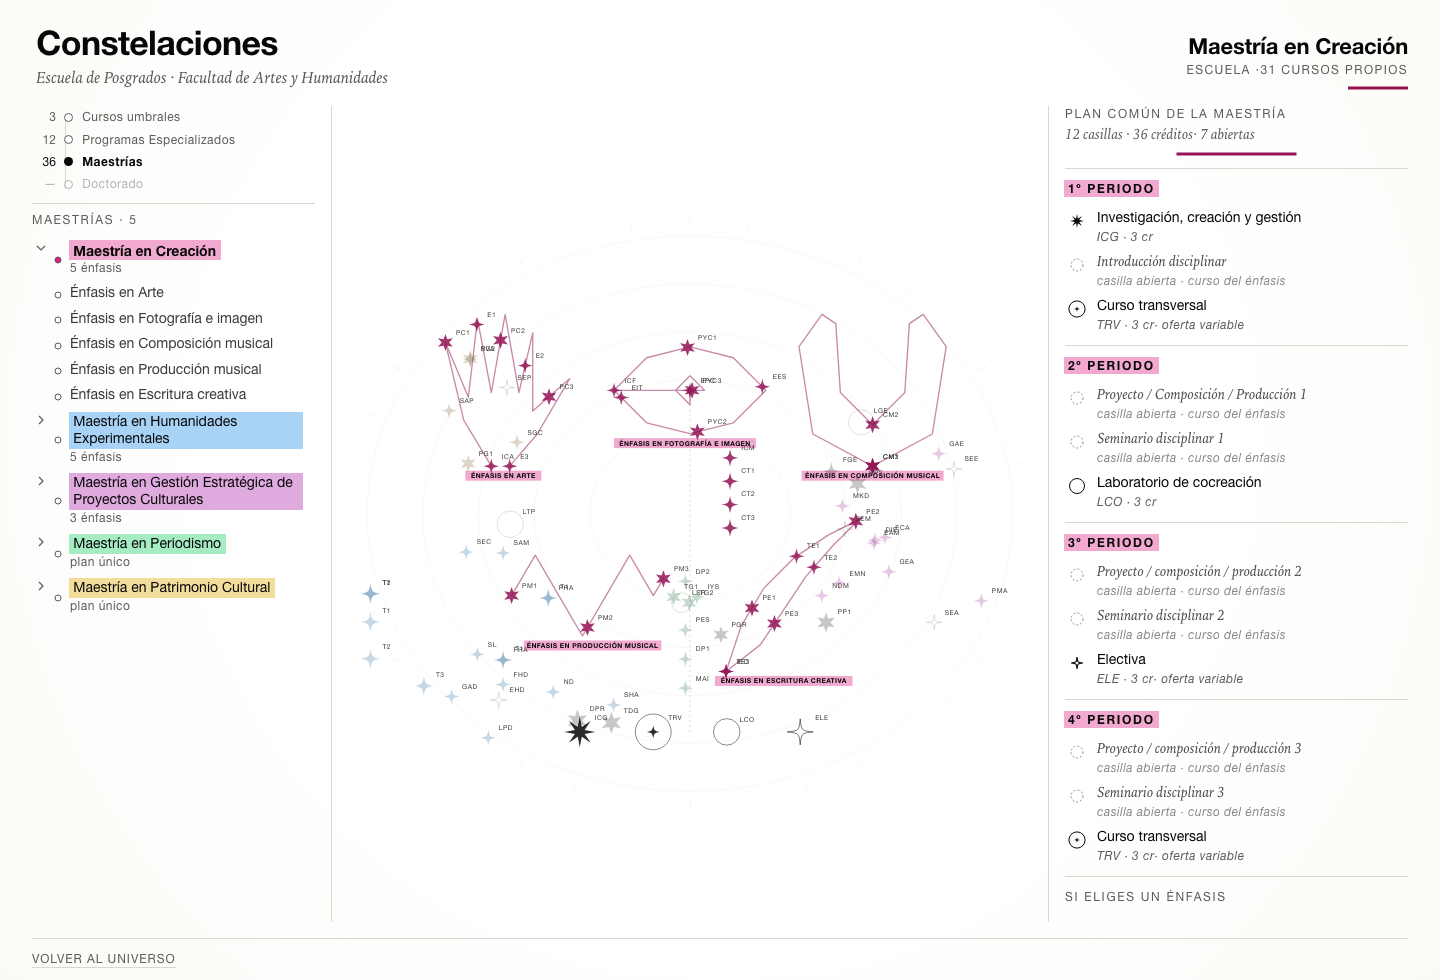
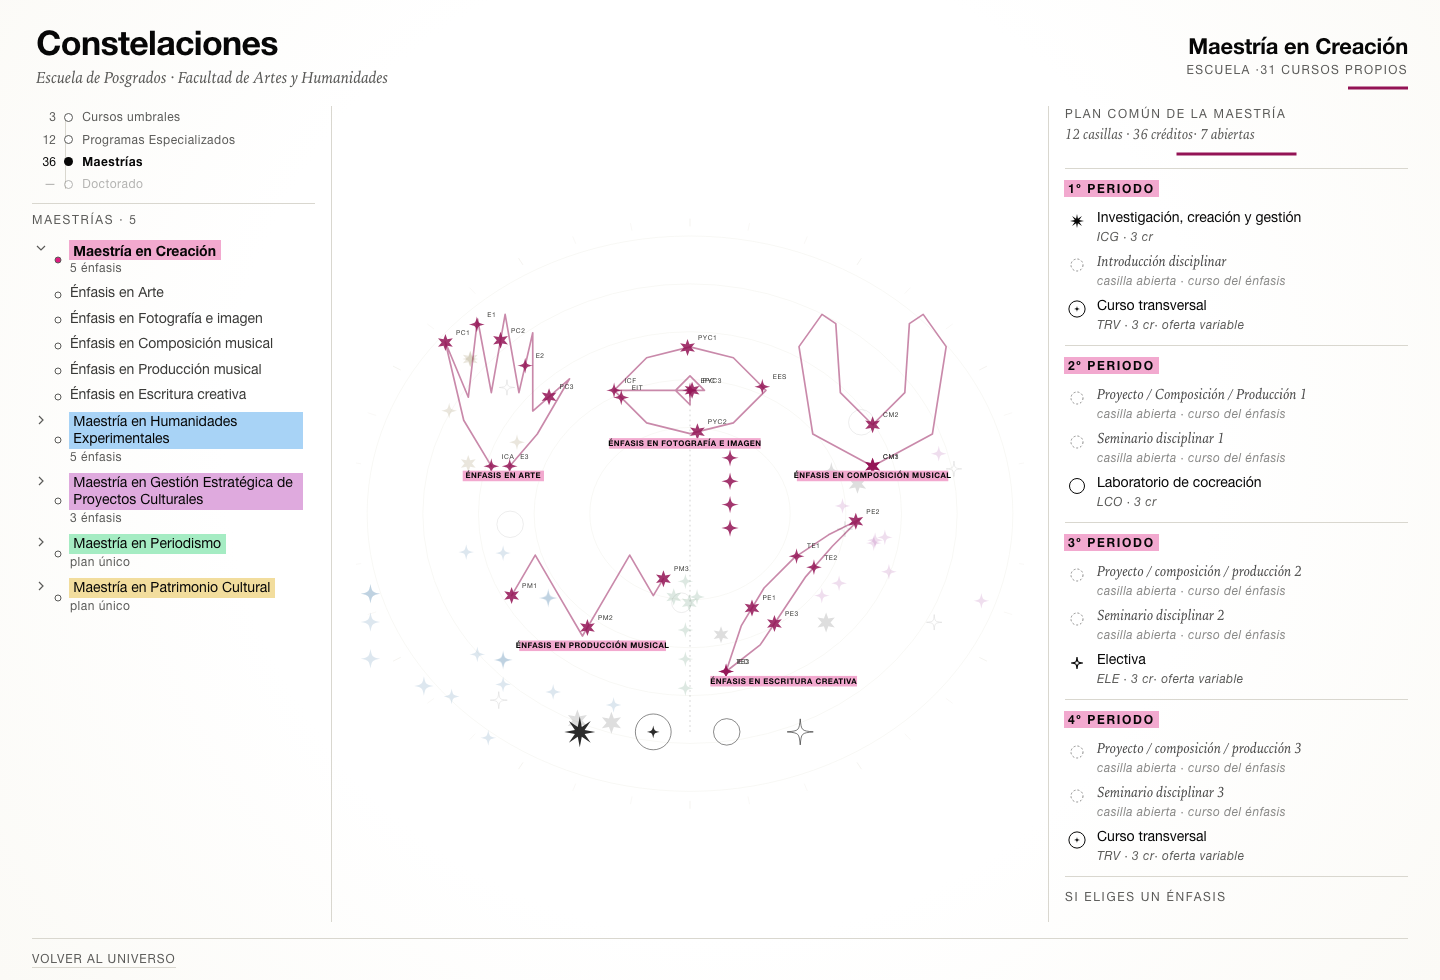
Los cursos se tocan solo donde son el tema
- estrellas inertes en las vistas generales; botones en umbrales y vistas enfocadas
- capa de rótulos al final: nunca detrás de una estrella
- rótulos a 14-15 px; trazos a 3 y 1,6
- docs y capturas

diff --git a/src/lib/components/SkyStage.svelte b/src/lib/components/SkyStage.svelte
@@ -152,18 +152,14 @@
           }
         }}
       >
-        {#each lineas as linea, i (linea)}
-          <rect
-            x={xEt - (linea.length * 7.9 + 18) / 2}
-            y={arriba[1] - 24 - (lineas.length - 1 - i) * 15}
-            width={linea.length * 7.9 + 18}
-            height="17"
-            class="fondo-region {marcaDe(l.programaId)}"
-          />
-        {/each}
-        {#each lineas as linea, i (linea)}
-          <text x={xEt} y={arriba[1] - 11.5 - (lineas.length - 1 - i) * 15} class="nombre-region">{linea}</text>
-        {/each}
+        <!-- área de clic del rótulo; el texto se dibuja arriba de todo -->
+        <rect
+          x={xEt - 90}
+          y={arriba[1] - 24 - (lineas.length - 1) * 15}
+          width="180"
+          height={lineas.length * 15 + 4}
+          fill="transparent"
+        />
       </g>
     {/each}
   </g>
@@ -205,18 +201,6 @@
             fill="transparent"
           />
           <path d={polylinePath(s.puntos)} fill="none" stroke={colorDe(objetivo)} />
-          <g class="etiqueta">
-            <rect
-              x={etX - anchoEt / 2}
-              y={etY}
-              width={anchoEt}
-              height="25"
-              class="fondo-etiqueta {marcaDe(s.programaId)}"
-            />
-            <text x={etX} y={etY + 17} class="nombre-silueta">
-              {p.nombreCorto}
-            </text>
-          </g>
         </g>
       {/each}
     </g>
@@ -266,20 +250,6 @@
             class="silueta"
             class:visible={!enNebulosa}
           />
-          <rect
-            x={f.puntos.reduce((a, q) => a + q[0], 0) / f.puntos.length - (nombreFig.length * 7.9 + 18) / 2}
-            y={Math.max(...f.puntos.map((q) => q[1])) + 8}
-            width={nombreFig.length * 7.9 + 18}
-            height="18"
-            class="fondo-figura {marcaDe(f.programaId)}"
-            class:visible={activa || etiquetaFija}
-          />
-          <text
-            x={f.puntos.reduce((a, q) => a + q[0], 0) / f.puntos.length}
-            y={Math.max(...f.puntos.map((q) => q[1])) + 21.5}
-            class="nombre-figura"
-            class:visible={activa || etiquetaFija}
-          >{nombreFig}</text>
         </g>
       {:else}
         <path
@@ -308,16 +278,18 @@
           class:resaltada={senalada}
           class:de-foco={deFoco}
           class:apagada={!enNebulosa && !deFoco && e.estado === 'nebulosa'}
+          class:inerte={enNebulosa && nivel !== 'curso'}
           role="button"
-          tabindex="0"
+          tabindex={!enNebulosa || nivel === 'curso' ? 0 : -1}
+          aria-disabled={enNebulosa && nivel !== 'curso'}
           aria-label="{c.nombre}, {c.creditos} créditos"
-          onmouseenter={() => onHover(e.cursoId)}
+          onmouseenter={() => (!enNebulosa || nivel === 'curso') && onHover(e.cursoId)}
           onmouseleave={() => onHover(null)}
-          onfocus={() => onHover(e.cursoId)}
+          onfocus={() => (!enNebulosa || nivel === 'curso') && onHover(e.cursoId)}
           onblur={() => onHover(null)}
-          onclick={() => onAbrirCurso(e.cursoId)}
+          onclick={() => (!enNebulosa || nivel === 'curso') && onAbrirCurso(e.cursoId)}
           onkeydown={(ev) => {
-            if (ev.key === 'Enter' || ev.key === ' ') {
+            if ((ev.key === 'Enter' || ev.key === ' ') && (!enNebulosa || nivel === 'curso')) {
               ev.preventDefault()
               onAbrirCurso(e.cursoId)
             }
@@ -334,6 +306,77 @@
           class="código"
           class:visible={!viajando && ((!enNebulosa && e.estado === 'figura') || deFoco || senalada)}
         >{c.codigo}</text>
+      {/if}
+    {/each}
+  </g>
+
+  <!-- rótulos: siempre encima de las estrellas -->
+  <g class="rotulos">
+    {#each escena.limites as l (l.programaId)}
+      {#if nivel === 'maestria'}
+        {@const p = curriculum.programas[l.programaId]}
+        {@const arriba = l.puntos.reduce((a, q) => (q[1] < a[1] ? q : a), l.puntos[0])}
+        {@const lineas = partirEtiqueta(p.nombreCorto)}
+        {@const xEt = Math.min(Math.max(arriba[0], 110), escena.ancho - 110)}
+        <g class="rotulo-region" role="button" tabindex="0" aria-label="Ver {p.nombreCorto}"
+          onmouseenter={() => onHoverPrograma(l.programaId)}
+          onmouseleave={() => onHoverPrograma(null)}
+          onclick={() => onElegir(l.programaId)}
+          onkeydown={(ev) => {
+            if (ev.key === 'Enter' || ev.key === ' ') { ev.preventDefault(); onElegir(l.programaId) }
+          }}>
+          {#each lineas as linea, i (linea)}
+            <rect
+              x={xEt - (linea.length * 8.4 + 20) / 2}
+              y={arriba[1] - 26 - (lineas.length - 1 - i) * 16}
+              width={linea.length * 8.4 + 20}
+              height="18"
+              class="fondo-region {marcaDe(l.programaId)}"
+            />
+          {/each}
+          {#each lineas as linea, i (linea)}
+            <text x={xEt} y={arriba[1] - 13 - (lineas.length - 1 - i) * 16} class="nombre-region">{linea}</text>
+          {/each}
+        </g>
+      {/if}
+    {/each}
+
+    {#each escena.siluetas as s (s.programaId)}
+      {#if sinPrograma && siluetaHover === (s.objetivo ?? s.programaId) && nivel !== 'curso'}
+        {@const p = curriculum.programas[s.objetivo ?? s.programaId]}
+        {@const bx = s.puntos.reduce((a, q) => a + q[0], 0) / s.puntos.length}
+        {@const by = Math.max(...s.puntos.map((q) => q[1]))}
+        {@const anchoEt = Math.max(78, p.nombreCorto.length * 8.8 + 24)}
+        {@const etX = Math.min(Math.max(bx, anchoEt / 2 + 8), escena.ancho - anchoEt / 2 - 8)}
+        <g class="etiqueta">
+          <rect
+            x={etX - anchoEt / 2}
+            y={Math.min(by + 12, escena.alto - 28)}
+            width={anchoEt}
+            height="26"
+            class="fondo-figura-visible {marcaDe(s.programaId)}"
+          />
+          <text x={etX} y={Math.min(by + 12, escena.alto - 28) + 18} class="nombre-silueta">{p.nombreCorto}</text>
+        </g>
+      {/if}
+    {/each}
+
+    {#each escena.figuras as f (f.programaId)}
+      {@const activa = foco?.tipo === 'programa' && foco.id === f.programaId}
+      {@const fija = escena.figuras.length > 1}
+      {#if activa || fija}
+        {@const nombre = curriculum.programas[f.programaId]?.nombreCorto ?? ''}
+        {@const cx = f.puntos.reduce((a, q) => a + q[0], 0) / f.puntos.length}
+        {@const abajo = Math.max(...f.puntos.map((q) => q[1]))}
+        <rect
+          x={cx - (nombre.length * 8.4 + 20) / 2}
+          y={abajo + 8}
+          width={nombre.length * 8.4 + 20}
+          height="19"
+          class="fondo-figura {marcaDe(f.programaId)}"
+          class:visible={activa || fija}
+        />
+        <text x={cx} y={abajo + 22} class="nombre-figura" class:visible={activa || fija}>{nombre}</text>
       {/if}
     {/each}
   </g>
@@ -408,9 +451,9 @@
 
   .nombre-region {
     font-family: var(--ff-sans);
-    font-size: 12px;
+    font-size: 15px;
     font-weight: 700;
-    letter-spacing: 0.06em;
+    letter-spacing: 0.05em;
     text-transform: uppercase;
     fill: var(--c-ink);
     text-anchor: middle;
@@ -447,11 +490,6 @@
     pointer-events: none;
   }
 
-  .silueta-selector.activa .etiqueta,
-  .silueta-selector:focus-visible .etiqueta {
-    opacity: 1;
-  }
-
   .nombre-silueta {
     font-family: var(--ff-sans);
     font-size: 14px;
@@ -483,7 +521,7 @@
 
   .nombre-figura {
     font-family: var(--ff-sans);
-    font-size: 12px;
+    font-size: 14px;
     font-weight: 700;
     letter-spacing: 0.06em;
     text-transform: uppercase;
@@ -500,14 +538,13 @@
     opacity: 1;
   }
 
-  .fondo-figura {
-    opacity: 0;
-    transition: opacity var(--t-fast) var(--ease);
+  .fondo-figura,
+  .fondo-figura-visible {
+    opacity: 1;
   }
 
   .etiqueta {
-    opacity: 0;
-    transition: opacity var(--t-fast) var(--ease);
+    opacity: 1;
   }
 
   .silueta {
@@ -546,6 +583,11 @@
 
   .estrella.apagada {
     opacity: 0.13;
+  }
+
+  .estrella.inerte {
+    cursor: default;
+    pointer-events: none;
   }
 
   .estrella.de-foco {

diff --git a/src/styles/tokens.css b/src/styles/tokens.css
@@ -82,8 +82,8 @@
 
   /* Trazos y opacidades */
   --stroke-grid: 0.9;
-  --stroke-const: 2.4;
-  --stroke-region: 1;
+  --stroke-const: 3;
+  --stroke-region: 1.6;
   --stroke-link: 1.2;
   --stroke-active: 3;
   --op-dim: 0.28;

diff --git a/docs/diary.md b/docs/diary.md
@@ -428,3 +428,17 @@ texto esperaba al cursor: un rectángulo de color sin nombre. Ahora marca y text
 
 **Enfocar una figura enciende sus cursos.** Era lo que faltaba: se veía la silueta sin saber qué
 estrellas eran suyas.
+
+---
+
+## 2026-10-30 · Dónde se toca un curso
+
+**Solo donde el curso es el tema.** En el universo de maestrías y de especializados las estrellas son
+inertes: sin foco, sin clic, sin código. Interactuar con 91 cursos ahí es ruido; se explora por
+programas. En umbrales y en las vistas enfocadas vuelven a ser botones.
+
+**Los rótulos se dibujan al final.** Estaban antes que las estrellas, que los tapaban. Ahora hay una
+capa de rótulos después de todo: ningún nombre queda debajo de un icono.
+
+**Trazos más anchos.** Constelaciones a 3 y envolventes a 1,6; los rótulos a 14–15 px. El mapa se lee
+de lejos, que es como se va a proyectar.

diff --git a/docs/design-system.md b/docs/design-system.md
@@ -126,6 +126,14 @@ Un rótulo es fijo si nombra **el objeto de la vista**; si no, aparece al pasar 
 Los códigos de curso siguen la misma lógica: aparecen en la constelación abierta y al enfocar una
 figura; nunca en el universo, donde serían 91 etiquetas.
 
+**Los cursos solo se tocan donde son el tema.** En la escala de umbrales y en una vista enfocada
+(especializado, énfasis o maestría abierta) son botones; en las vistas generales —universo de
+maestrías y de especializados— son inertes: sin foco, sin clic, sin código. Ahí se explora por
+programas, no por cursos.
+
+**Los rótulos van siempre encima de las estrellas.** Se dibujan en una capa final; ninguna estrella
+tapa un nombre.
+
 **Regla:** todo rótulo lleva su marca de familia; el texto va en tinta. No hay rótulos «a pelo» ni
 rectángulos de color sin texto.
 

diff --git a/docs/plan.md b/docs/plan.md
@@ -146,6 +146,9 @@ brazos; `prefers-reduced-motion` salta al estado final.
 - [x] **Paso 1 del mapa único**: el universo lleva sus estrellas; cada curso sobre el trazo de su plan
 - [x] Un curso, una estrella por figura: los compartidos se repiten
 - [x] Los cursos sin figura flotan entre constelaciones, nunca en fila
+- [x] Cursos clicables solo en umbrales y en vistas enfocadas
+- [x] Rótulos en capa final: nunca detrás de una estrella
+- [x] Rótulos a 14–15 px; constelaciones y envolventes más gruesas (3 / 1,6)
 - [x] El título vuelve al universo **y** a la escala de maestría
 - [x] Detalle de curso con la escalera «Cuenta para»
 - [x] 34 pruebas
